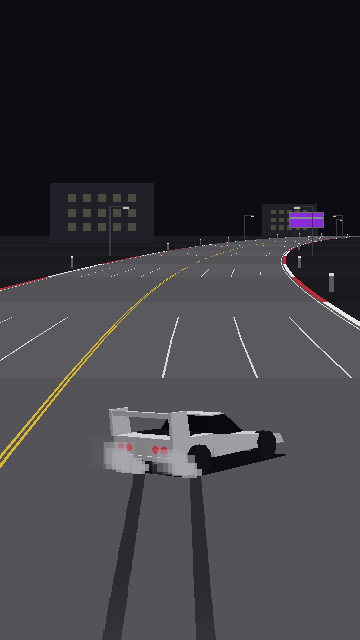
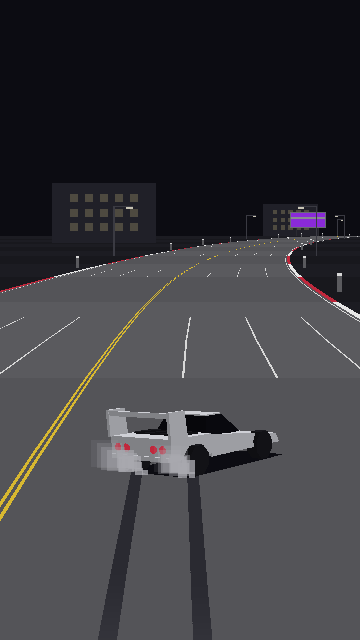
Tyre marks without staircase (R24c); T73 verification

diff --git a/src/render/spriteBatch.ts b/src/render/spriteBatch.ts
@@ -16,6 +16,7 @@ attribute vec2 iSize;
 attribute vec3 iTint;
 attribute vec4 iUv;
 attribute float iAlpha;
+attribute float iShear;
 varying vec3 vTint;
 varying float vAlpha;
 varying vec2 vUv;
@@ -24,7 +25,12 @@ void main() {
   vTint = iTint;
   vAlpha = iAlpha;
   vUv = iUv.xy + position.xy * iUv.zw;
-  vec2 p = vec2(iPos.x + (position.x - 0.5) * iSize.x, iPos.y + position.y * iSize.y);
+  // iShear: x offset of the top edge relative to the base (R24c tyre marks; 0 = upright); the quad
+  // slants about its mid-height, so iPos.x stays the centre of its x span.
+  vec2 p = vec2(
+    iPos.x + (position.x - 0.5) * iSize.x + (position.y - 0.5) * iShear,
+    iPos.y + position.y * iSize.y
+  );
   gl_Position = vec4(rollNdc(p), iPos.z, 1.0); // R27 roll last
 }
 `;
@@ -52,11 +58,13 @@ export class SpriteBatch {
   private readonly size: Float32Array;
   private readonly tint: Float32Array;
   private readonly alpha: Float32Array;
+  private readonly shear: Float32Array;
   private readonly uv: Float32Array;
   private readonly posAttr: InstancedBufferAttribute;
   private readonly sizeAttr: InstancedBufferAttribute;
   private readonly tintAttr: InstancedBufferAttribute;
   private readonly alphaAttr: InstancedBufferAttribute;
+  private readonly shearAttr: InstancedBufferAttribute;
   private readonly sx: number;
   private readonly sy: number;
   private n = 0;
@@ -76,6 +84,7 @@ export class SpriteBatch {
     this.size = new Float32Array(capacity * 2);
     this.tint = new Float32Array(capacity * 3);
     this.alpha = new Float32Array(capacity);
+    this.shear = new Float32Array(capacity);
     this.uv = new Float32Array(capacity * 4);
     for (let i = 0; i < capacity; i++) {
       this.uv[i * 4 + 2] = 1;
@@ -92,10 +101,12 @@ export class SpriteBatch {
     this.sizeAttr = new InstancedBufferAttribute(this.size, 2).setUsage(DynamicDrawUsage);
     this.tintAttr = new InstancedBufferAttribute(this.tint, 3).setUsage(DynamicDrawUsage);
     this.alphaAttr = new InstancedBufferAttribute(this.alpha, 1).setUsage(DynamicDrawUsage);
+    this.shearAttr = new InstancedBufferAttribute(this.shear, 1).setUsage(DynamicDrawUsage);
     geo.setAttribute('iPos', this.posAttr);
     geo.setAttribute('iSize', this.sizeAttr);
     geo.setAttribute('iTint', this.tintAttr);
     geo.setAttribute('iAlpha', this.alphaAttr);
+    geo.setAttribute('iShear', this.shearAttr);
     geo.setAttribute('iUv', new InstancedBufferAttribute(this.uv, 4));
     geo.instanceCount = 0;
 
@@ -129,7 +140,8 @@ export class SpriteBatch {
   /**
    * One flat rectangle. x = centre of the base, y = base (screen px, y down), w/h in px,
    * depth in NDC, colour = 3 floats of `rgb` starting at `at` (raw sRGB 0..1), alpha 0..1 (used
-   * only by an overlay batch).
+   * only by an overlay batch), shear = x offset of the top edge relative to the base, px (the quad
+   * slants about its mid-height; 0 = upright rectangle).
    */
   push(
     x: number,
@@ -140,6 +152,7 @@ export class SpriteBatch {
     rgb: Float32Array,
     at: number,
     alpha = 1,
+    shear = 0,
   ): void {
     const i = this.n;
     if (i >= this.capacity) {
@@ -156,6 +169,7 @@ export class SpriteBatch {
     this.tint[p + 1] = rgb[at + 1]!;
     this.tint[p + 2] = rgb[at + 2]!;
     this.alpha[i] = alpha;
+    this.shear[i] = shear * this.sx;
     this.n = i + 1;
   }
 
@@ -166,6 +180,7 @@ export class SpriteBatch {
     upload(this.sizeAttr, n * 2);
     upload(this.tintAttr, n * 3);
     upload(this.alphaAttr, n);
+    upload(this.shearAttr, n);
   }
 }
 

diff --git a/tests/render/tyreMarks.test.ts b/tests/render/tyreMarks.test.ts
@@ -203,6 +203,49 @@ describe('R24c markRect: screen rectangle of a mark piece in the roadside-object
     expect(markRect(out, p, p.base - 0.5, 0, p.base + 1, 0, W)).toBe(false);
     expect(out).toEqual({ x: 123, y: 0, w: 0, h: 0, depth: 0 });
   });
+  it('shear = screen x of the upper (far) end minus the lower (near) end, either order', () => {
+    const p = run(curvyLong(), 40.2, 0.1);
+    const z0 = p.base + 3.25;
+    const z1 = p.base + 3.5;
+    const a = blank();
+    const b = blank();
+    placeOnRoad(a, p, z0, -0.5, W, 0);
+    placeOnRoad(b, p, z1, 0.5, W, 0);
+    const lower = a.y > b.y ? a : b;
+    const upper = a.y > b.y ? b : a;
+    const f = { ...blank(), shear: 0 };
+    const g = { ...blank(), shear: 0 };
+    expect(markRect(f, p, z0, -0.5, z1, 0.5, W)).toBe(true);
+    expect(markRect(g, p, z1, 0.5, z0, -0.5, W)).toBe(true);
+    near(f.shear, upper.x - lower.x, 1e-3, 'shear');
+    near(g.shear, f.shear, 1e-6, 'order');
+    expect(Math.abs(f.shear)).toBeGreaterThan(1); // a slanted piece really slants
+  });
+  it('consecutive pieces of a slanted mark join: top edge of one = base of the next (no staircase)', () => {
+    const p = run(curvyLong(), 40.2, 0.1);
+    const x0 = -0.6;
+    const x1 = 0.4;
+    const z0 = p.base + 1.5; // to z0 + 2
+    const m = 8;
+    let prevTopX = Number.NaN;
+    let prevTopY = Number.NaN;
+    for (let s = 0; s < m; s++) {
+      const u0 = s / m;
+      const u1 = (s + 1) / m;
+      const o = { ...blank(), shear: 0 };
+      expect(
+        markRect(o, p, z0 + 2 * u0, x0 + (x1 - x0) * u0, z0 + 2 * u1, x0 + (x1 - x0) * u1, W),
+      ).toBe(true);
+      const baseX = o.x - o.shear * 0.5;
+      const topX = o.x + o.shear * 0.5;
+      if (s > 0) {
+        near(baseX, prevTopX, 1e-3, `piece ${s} base x`);
+        near(o.y, prevTopY, 1e-3, `piece ${s} base y`);
+      }
+      prevTopX = topX;
+      prevTopY = o.y - o.h;
+    }
+  });
   it('an end behind a crest returns false', () => {
     const p = run(makeStraightTrack(400), 5.4, 0);
     p.clipped[4] = 1;
@@ -276,6 +319,7 @@ describe('R24c TyreMarks.track: sampling in DRIFT on the asphalt', () => {
     maxGap: 4,
     stepPx: 3,
     maxSub: 24,
+    slant: 1, // render only; track() does not read it
   };
   // Live wheel points at track z (both wheels at the same z), offsets xl / xr.
   function at(m: TyreMarks, z: number, xl = -0.2, xr = 0.2): void {

diff --git a/src/render/tyreMarks.ts b/src/render/tyreMarks.ts
@@ -12,6 +12,7 @@ export interface TyreMarksConfig {
   maxGap: number; // segments; a longer jump between samples (crash return, respawn) breaks the mark
   stepPx: number; // a piece between two samples is drawn as sub-pieces about this tall on screen
   maxSub: number; // at most this many sub-pieces per piece
+  slant: number; // share of a piece's screen slant applied as shear (1 = continuous line, 0 = upright steps)
 }
 
 /** A point on the road surface: track z (segments, wrapped) and offset (road half-widths, + = right). */
@@ -61,15 +62,21 @@ function lineOf(proj: Projection, z: number): number {
   return r;
 }
 
+/** markRect output: a Placement plus the slant of the piece. */
+export interface MarkPlacement extends Placement {
+  shear?: number; // written by markRect: screen x of the upper (far) end minus the lower (near) end, px
+}
+
 /**
- * Screen rectangle of one mark piece between road points (z0, x0) and (z1, x1), `worldW` wide, in
- * the SpriteBatch convention (x = centre of the base, y = base = the nearer end, px). Depth is the
- * nearer end's, as placeOnRoad gives it: in front of the road strips the piece lies on, behind
- * anything standing nearer. False (out untouched) when either end is outside the drawn range or
- * behind a crest. No allocations.
+ * Screen quad of one mark piece between road points (z0, x0) and (z1, x1), `worldW` wide, in
+ * the SpriteBatch convention (x = centre of the piece's x span, y = base = the nearer end, px);
+ * `shear` slants it so the lower edge is centred on the nearer end and the upper edge on the
+ * farther end (consecutive pieces join without steps). Depth is the nearer end's, as placeOnRoad
+ * gives it: in front of the road strips the piece lies on, behind anything standing nearer. False
+ * (out untouched) when either end is outside the drawn range or behind a crest. No allocations.
  */
 export function markRect(
-  out: Placement,
+  out: MarkPlacement,
   proj: Projection,
   z0: number,
   x0: number,
@@ -95,6 +102,7 @@ export function markRect(
   out.y = sy0 > sy1 ? sy0 : sy1;
   out.w = worldW * s;
   out.h = Math.abs(sy0 - sy1);
+  out.shear = sy0 > sy1 ? sx1 - sx0 : sx0 - sx1;
   const step = 2 / (proj.count - 1);
   out.depth = -1 + step * (ni + 0.05 + 0.2 * (near - ni));
   return true;

diff --git a/src/render/worldSprites.ts b/src/render/worldSprites.ts
@@ -6,8 +6,14 @@ import type { CrashTumbleConfig } from './crashTumble';
 import type { RivalDrawConfig } from './rivalModels';
 import type { TailLightsConfig } from './tailLights';
 import type { DriftVisual, DriftVisualConfig } from './driftVisual';
-import { placeOnRoad, type Placement } from './placeOnRoad';
-import { forwardDist, markRect, type TyreMarks, type TyreMarksConfig } from './tyreMarks';
+import { placeOnRoad } from './placeOnRoad';
+import {
+  forwardDist,
+  markRect,
+  type MarkPlacement,
+  type TyreMarks,
+  type TyreMarksConfig,
+} from './tyreMarks';
 import type { CameraConfig, Projection } from './projection';
 import { writeHex } from './roadMesh';
 import {
@@ -133,7 +139,7 @@ const BB_PANEL = 36; // palette.billboard[], then palette.building[]
 /** Placeholder sprites of layers 2-4: roadside objects, drift smoke, stress filler. */
 export class WorldSprites {
   private readonly rgb: Float32Array;
-  private readonly placement: Placement = { x: 0, y: 0, w: 0, h: 0, depth: 0 };
+  private readonly placement: Required<MarkPlacement> = { x: 0, y: 0, w: 0, h: 0, depth: 0, shear: 0 };
   private readonly screenW: number;
   private readonly screenH: number;
   private readonly panels: number;
@@ -284,7 +290,10 @@ export class WorldSprites {
     for (let ch = 0; ch < 3; ch++)
       rgb[FADED + ch] = rgb[TYRE_MARK + ch]! + (rgb[ASPHALT + ch]! - rgb[TYRE_MARK + ch]!) * t;
     const p = this.placement;
-    batch.push(p.x, p.y, p.w < 1 ? 1 : p.w, p.h < 1 ? 1 : p.h, p.depth, rgb, FADED);
+    const h = p.h < 1 ? 1 : p.h;
+    // R24c: slanted along the piece so a slanted mark reads as one line, not a staircase.
+    const shear = p.shear * this.cfg.tyreMarks.slant;
+    batch.push(p.x, p.y, p.w < 1 ? 1 : p.w, h, p.depth, rgb, FADED, 1, shear);
   }
 
   /**

diff --git a/docs/progress.md b/docs/progress.md
@@ -214,10 +214,14 @@
   - Draw calls: `drift-right` 3 → 4 (дымовой проход), сцена без дыма — без изменений (`empty` 4: меш дыма скрыт, когда пуст). В живом дрифте с соперниками — 5 (бюджет smoke ≤ 12; `render-budget` ≤ 4 меряется на `empty` без дрифта).
   - Проверка (независимый проверяющий, 2026-11-20): блокеров нет; тесты помощников `tests/render/tyreMarks.test.ts` (33, по R24c: `forwardDist`, `roadPointAt`, `markRect`, `TyreMarkRing`, `TyreMarks.track`). Эталоны обновлены: `drift-right` (8.3%), `drift-camera` (14.9%), `sharp` (7.1%) — дым поверх задних фонарей, машина читается, две тёмные полосы от задних колёс до низа экрана; `curve-left` / `curve-right` (2.5 / 2.7%) и `map-curve` (3.5%) — сдвиг машины от T71 (GRIP, ни дыма, ни следов). Живой дрифт (`?hud=1`, swiftshader): p50 16.7 / p99 16.8 мс (интервал кадра), 5 draw calls, ≈ 370 инстансов; ошибок 0.
   - Находки (по заметности): (1) «зигзаг» следа — каждый подкусок прямоугольник по осям экрана с центром посередине, поэтому наклонный след — лесенка; у низа экрана подкуски выше `stepPx` (упор `maxSub` 24 при высоких кусках), ступеньки 5–8 px заметны на кадре; плюс точки колёс берутся с экрана (вместе с рысканием и креном кузова) — лёгкое дрожание между образцами. (2) S-поворот: в просвете GRIP (6–13 сегм.) следы обрываются и за ≈ 4 сегм. исчезают, а кузов ещё повёрнут и дым идёт — разрыв следа виден, но не режет глаз. (3) Хвост следа тает в `asphalt[0]`, на полосах `asphalt[1]` конец на 6 единиц светлее — не виден. Ощущение на телефоне — за автором.
-- T73 🟡 дрифт по пальцу (2026-11-21) — правила в брифе (R81g; R81f отклонён), тесты написаны и падают; реализации нет. Решение автора после игры T71: «Игрок должен сам отпускать кнопку дрифта, чтобы закончить дрифт… игрок управляет поворотом, игрок управляет дрифтом, а также когда входить и когда выходить»; на телефоне — «зона дрифта»: тянешь палец вниз — дрифт.
+- T73 🟡 дрифт по пальцу (2026-11-21) — правила в брифе (R81g; R81f отклонён); реализация закоммичена (`84be090`, влита в `main` по просьбе автора до проверки). Решение автора после игры T71: «Игрок должен сам отпускать кнопку дрифта, чтобы закончить дрифт… игрок управляет поворотом, игрок управляет дрифтом, а также когда входить и когда выходить»; на телефоне — «зона дрифта»: тянешь палец вниз — дрифт.
   - Сим: по умолчанию снова вариант 3 (`driftEntry` 3, `rivalDriftEntry` 3, H16 = D): вход — палец/пробел и руль ≠ 0, `dir` = знак руля, на прямой тоже; выход только R82; доля угла — R83b (R83c только в варианте 5; R83c с `dir` от руля на прямой даёт 0.1–0.5 — противоречит R83b, к автору). R86f, `gripDodge` 0.1, `debtTime` 0 без изменений.
   - Касание: защёлка тяги вниз `dy ≥ R*driftPull` (`driftPull` 0.6), боковой границы нет (`driftEdge` 1.35 → 0). Клавиатура — пробел. Боты — ветка варианта 3 до T71.
   - Открыто: R89 (12.6° < 15°) и R27b (44.4 < 50 px) с `gripDodge` 0.1 — к автору.
+  - Проверка постфактум (независимый проверяющий, 2026-11-20): блокеров нет. `zoneStick.ts` — без аллокаций, порог из `input.json`; правки старых тестов — данные по брифу (H16 D, `driftEntry` 3) и закрепление пути R81c (`driftEdge` 1.35, `driftPull` 0). Замечания: строки T73 в `balance.md` датированы 2026-11-21, «ждёт реализации» в колонке результата устарело. `check`, `test` (85 файлов, 2041 + 2 todo), `smoke` 14 — зелёные. Боты `drift-run` 119.74 / 107.86 / 107.86 с (T70: 119.74 / 110.10 / 110.03), `test-twisty` 91.09 / 81.01 / 81.01 с; гейт NO-GO: `novice-offroad-hard` drift-run 0.65, `expert-gap` 0.0% ×2, `drift-required` 9.9% / 11.1% (`expert-drift-used` 0.50 / 0.59 — снова проходит). Соперники `--rivals`: медиана места 7 / 4 / 4 (expert FAIL ≤ 3). Скриншоты: менялся только `sharp` (4.1%, сдвиг машины от варианта 3).
+  - Живое приложение (Playwright 360×640 касание, адрес по умолчанию, `drift-run`): (i) 20 с змейкой ±50 px с вертикальной дрожью ±25 px — ни одного кадра `input.drift`; порог — 34.6 px (34.5 нет, 34.6 да); (ii) тяга вниз со смещением вбок — DRIFT в сторону смещения, палец вернулся вверх — дрифт держится, 2 с на прямой после поворота в DRIFT, отпускание — GRIP; один заход (руль 0.78 в повороте 4.5 на 0.6 `vmax`) увёл машину за край (`x` 1.29) и выбил из DRIFT; (iii) тяга строго вниз с `dx` 1–3 px в повороте: 10 из 10 DRIFT, сторона — по знаку `dx`, против поворота 5 из 10 (шум пальца); `dx` 0 — защёлка есть, GRIP ждёт руля; (iv) дрифт на прямой на `vmax`, руль 0 и −1 одинаково (пол R83b): `x` −0.24 → край дороги (`|x|` 1) за 2.8 с в сторону дрифта; (v) скорость в DRIFT не ниже входа (вход 1.000 → мин. 0.992–0.995 на прямой; 0.604 → 0.611, 0.617 → 0.620 в поворотах); (vi) касание ниже `y` 605 из 640 тянуть некуда — дрифта нет (35 px = 15.6% высоты зоны руля 224 px, 5.5% экрана); (vii) клавиатура: стрелка + пробел — DRIFT `dir` +1, стрелка отпущена — дрифт держится, пробел отпущен — GRIP, пробел без стрелки — GRIP; (viii) ошибок консоли 0.
+  - Находки (по заметности для игрока): (1) тяга строго вниз даёт дрифт в случайную сторону — половина входов против поворота; кандидат правила «сторона от поворота при |руль| < порога» — к автору. (2) Дрифт на прямой неизбежно уносит к краю за ≈ 3 с, рулём не выпрямить (R83b) — выход только отпусканием, как задумано, но на длинной прямой это обочина. (3) Нижние 35 px зоны руля без дрифта. (4) `expert` = `average` в ботах (время круга не зависит от линии) — гейт меряет не то, к автору.
+  - Следы шин (R24c) без лесенки: у `SpriteBatch` новый атрибут инстанса `iShear` (сдвиг верхнего края относительно основания, четырёхугольник наклоняется вокруг середины высоты; по умолчанию 0 — остальные спрайты не меняются); `markRect` пишет `shear` (экранный `x` дальнего конца минус ближнего), кусок рисуется параллелограммом вдоль сегмента, соседние куски стыкуются без ступенек; `sprites.json` `tyreMarks.slant` 1 (0 — прежние прямоугольники). Тот же пакет и draw calls, без аллокаций. Тесты `tests/render/tyreMarks.test.ts` +2 (`shear`, стыковка кусков). Эталоны обновлены: `sharp`, `drift-right`, `drift-camera` (0.03–0.04% от следов; `sharp` ещё и сдвиг T73); остальные 0.0%.
 - Ждёт автора: сравнение вариантов входа H16 на телефоне; вопросы по соперникам (слипстрим, число охотников, имена, «горячее» первое место); 3D-модель машины для конвейера запекания спрайтов.
 
 ## Бэклог

diff --git a/docs/balance.md b/docs/balance.md
@@ -284,3 +284,4 @@
 | 2026-11-21 | `cars/base.json`: `driftEntry`; `rivals.json`: `rivalDriftEntry`; `hypotheses.json`: `H16_driftEntry` | 5 / 5 / F | 3 / 3 / D [решено автором 2026-11-21, T73] | R81g: игрок сам входит в дрифт и сам выходит (отпусканием), автоматического выхода по концу поворота нет; R81f отклонён | ждёт реализации; затем `bot` + `gate` (боты возвращаются к ветке варианта 3) |
 | 2026-11-21 | `input.json` (`touch`): новый `driftPull` | — | 0.6 [старт, предложение директора, T73] | R81g: тяга пальца вниз на 0.6 радиуса стика включает дрифт (360 px: 34.56 px) | тесты `tests/input/stick_pull_r81g.test.ts`; ощущение — автор на телефоне |
 | 2026-11-21 | `input.json` (`touch`): `driftEdge` | 1.35 | 0 (выключено) [T73] | R81g: боковой границы дрифта у стика нет; путь R81c остаётся в коде, тесты R81c закрепляют 1.35 | тесты `tests/input/stick_zone.test.ts` (закрепление) |
+| 2026-11-20 | `sprites.json` `tyreMarks`: новый `slant` | — | 1 [T73, проверка] | R24c: кусок следа наклоняется вдоль своего отрезка (сдвиг `iShear` в пакете спрайтов) — наклонный след одна линия, без ступенек 5–8 px; 0 — прежние прямоугольники | кадр `sharp` (увеличение низа экрана): края следов прямые; draw calls те же |
